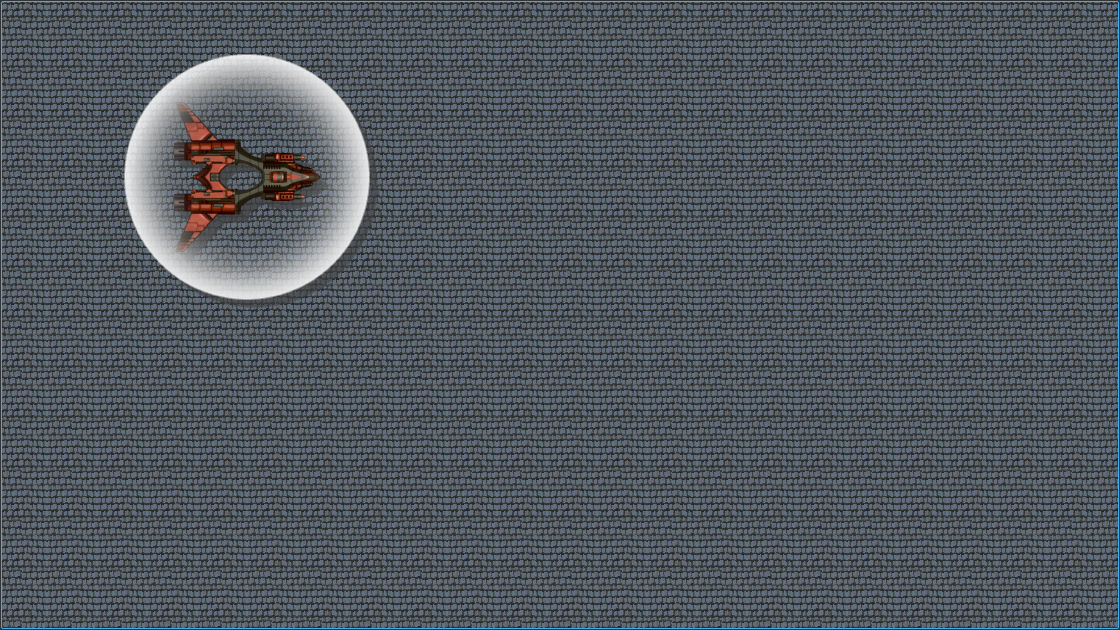
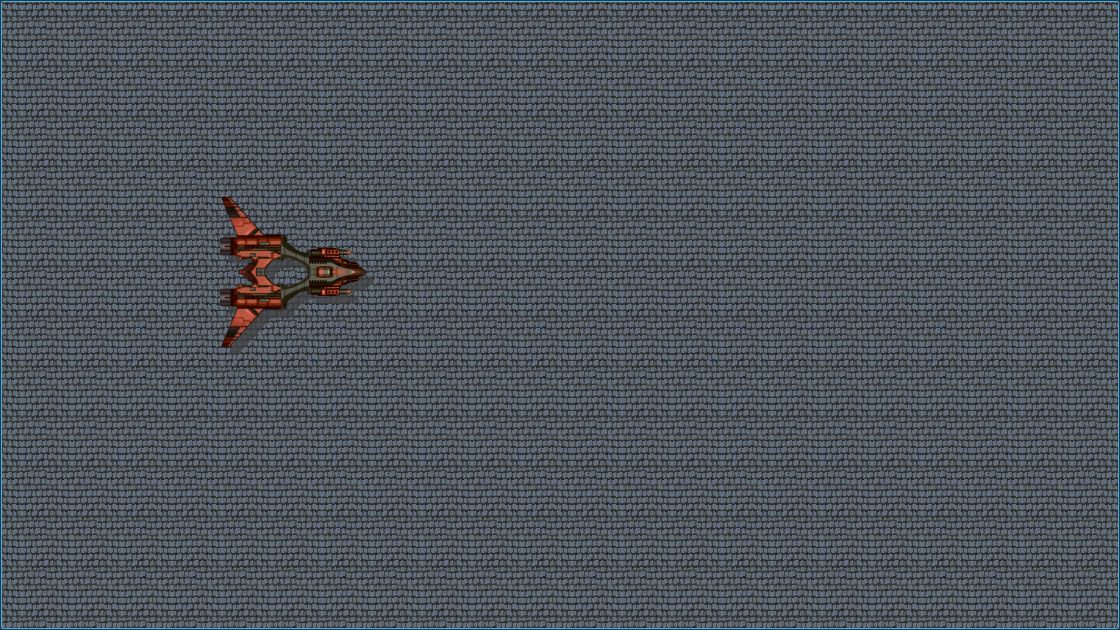
Project Update

diff --git a/Sources/Source Files/Game/MyShip.cpp b/Sources/Source Files/Game/MyShip.cpp
@@ -7,26 +7,35 @@
 #include "../../Headers/Game/MyShip.h"
 
 MyShip::MyShip(QGraphicsItem *parent) :
-		QGraphicsPixmapItem(parent) {
+		QGraphicsPixmapItem(parent), QObject() {
 	setGraphicsEffect(new QGraphicsDropShadowEffect());
 	setPos(10.0, 10.0);
 	rtn = 0;
 	vlc = new QPointF(0.0, 0.0);
 	shpshld = new MyShipShield(MyRes::shp_shld_add);
 	shpshld->setGraphicsEffect(new QGraphicsDropShadowEffect());
-//	scene()->addItem(shpshld);
+	shld_tmr = new QTimer();
+	QTimer::connect(shld_tmr, SIGNAL(timeout()), this, SLOT(deactivate_shld()));
+	mgc_tmr = new QTimer();
+	QTimer::connect(mgc_tmr, SIGNAL(timeout()), this, SLOT(deactivate_mgc()));
+//	shpshld->hide();
 }
 
 MyShip::MyShip(const QPixmap &pixmap, QGraphicsItem *parent) :
 		QGraphicsPixmapItem(pixmap.scaled(QSize(150, 150), Qt::KeepAspectRatio,
-		                                  Qt::SmoothTransformation), parent) {
+		                                  Qt::SmoothTransformation), parent), QObject() {
 	setGraphicsEffect(new QGraphicsDropShadowEffect());
 	setPos(10.0, 10.0);
 	rtn = 0;
 	vlc = new QPointF(0.0, 0.0);
 	shpshld = new MyShipShield(MyRes::shp_shld_add);
 	shpshld->setGraphicsEffect(new QGraphicsDropShadowEffect());
-//	scene()->addItem(shpshld);
+	shld_tmr = new QTimer();
+	QTimer::connect(shld_tmr, SIGNAL(timeout()), this, SLOT(deactivate_shld()));
+	mgc_tmr = new QTimer();
+	QTimer::connect(mgc_tmr, SIGNAL(timeout()), this, SLOT(deactivate_mgc()));
+	shpshld->hide();
+	activate_shld();
 }
 
 MyShip::~MyShip() {
@@ -78,6 +87,30 @@ void MyShip::cnstrct_shldpxmp() {
 	                pos().y() + (pixmap().height() / 2) - (shpshld->pixmap().height() / 2));
 }
 
+void MyShip::activate_shld() {
+	shld = true;
+	shpshld->show();
+	shld_tmr->start(5000);
+}
+
+void MyShip::deactivate_shld() {
+	QTextStream X(stderr);
+	X << 1 << endl;
+	shld = false;
+	shpshld->hide();
+	shld_tmr->stop();
+}
+
+void MyShip::activate_mgc() {
+	mgc = true;
+	mgc_tmr->start(5000);
+}
+
+void MyShip::deactivate_mgc() {
+	mgc = false;
+	mgc_tmr->stop();
+}
+
 void MyShip::updt_vlc(QSet<int> *prsd_kys) {
 	vlc->setY(0);
 	vlc->setX(0);
@@ -125,7 +158,7 @@ void MyShip::updt_pos() {
 	cnstrct_shldpxmp();
 }
 
-void MyShip::updt(qint64 stp_tm, QSet<int> *prsd_kys) {
+void MyShip::updt(QSet<int> *prsd_kys) {
 	updt_vlc(prsd_kys);
 	updt_rtn();
 	updt_pos();

diff --git a/Sources/Source Files/Game/MyGame.cpp b/Sources/Source Files/Game/MyGame.cpp
@@ -10,9 +10,7 @@ MyGame::MyGame(QWidget *parent) :
 	prsd_kys = new QSet<int>();
 	resize(MyRes::app_size);
 
-	stp_tmr = new QElapsedTimer();
-	stp_tmr->invalidate();
-
+	// Test
 	gscn = new QGraphicsScene();
 	gscn->setSceneRect(MyRes::scn_rct);
 	gscn->setBackgroundBrush(QBrush(QImage(MyRes::env_adds[SettingData::env]).scaled(MyRes::tl_size)));
@@ -32,8 +30,6 @@ MyGame::MyGame(QGraphicsScene *scene, QWidget *parent) :
 MyGame::~MyGame() { }
 
 void MyGame::unpause() {
-	stp_tmr_val = stp_tmr->elapsed();
-	stp_tmr->invalidate();
 	timer_id = startTimer(MyRes::frm_dly);
 }
 
@@ -43,7 +39,6 @@ void MyGame::restart() {
 void MyGame::keyPressEvent(QKeyEvent *event) {
 	prsd_kys->insert(event->key());
 	if (event->key() == Qt::Key_Escape) {
-		stp_tmr->restart();
 		killTimer(timer_id);
 		emit gamePaused();
 	}
@@ -56,7 +51,7 @@ void MyGame::keyReleaseEvent(QKeyEvent *event) {
 }
 
 void MyGame::timerEvent(QTimerEvent *event) {
-	tmp->updt(stp_tmr->elapsed(), prsd_kys);
+	tmp->updt(prsd_kys);
 	setSceneRect(sceneRect().x() + MyRes::vw_mvmnt, 0, viewport()->frameGeometry().width(),
 	             viewport()->frameGeometry().height());
 }

diff --git a/Sources/Headers/Game/MyShip.h b/Sources/Headers/Game/MyShip.h
@@ -18,8 +18,11 @@
 #include <Sources/Headers/Resources.h>
 #include "MyShipShield.h"
 
-class MyShip : public QGraphicsPixmapItem {
+class MyShip : public QObject, public QGraphicsPixmapItem {
+Q_OBJECT
+
 	friend class MyGame;
+
 public:
 	MyShip(QGraphicsItem *parent = 0);
 
@@ -47,7 +50,7 @@ public:
 
 	QPointF *getVlc() const;
 
-	void updt(qint64 = 0, QSet<int> * = 0);
+	void updt(QSet<int> * = 0);
 
 	void updt_vlc(QSet<int> *);
 
@@ -75,6 +78,16 @@ private:
 	QPointF *frc;
 
 	void cnstrct_shldpxmp();
+
+private slots:
+
+	void activate_shld();
+
+	void deactivate_shld();
+
+	void activate_mgc();
+
+	void deactivate_mgc();
 };
 
 #endif //SHOOTER_AP93UT_MYSHIP_H

diff --git a/Sources/Headers/Game/MyGame.h b/Sources/Headers/Game/MyGame.h
@@ -56,9 +56,6 @@ private:
 	QList<MyShield> shlds;
 	QList<MyMagic> mgns;
 
-	QElapsedTimer *stp_tmr;
-	qint64 stp_tmr_val;
-
 	int timer_id;
 
 	void unpause();

diff --git a/Sources/Headers/MyMainWindow.h b/Sources/Headers/MyMainWindow.h
@@ -6,7 +6,6 @@
 #define SHOOTER_AP93UT_MYMAINWINDOW_H
 
 
-//#include <iostream>
 #include <QDebug>
 #include <QTextStream>
 #include <QMainWindow>
